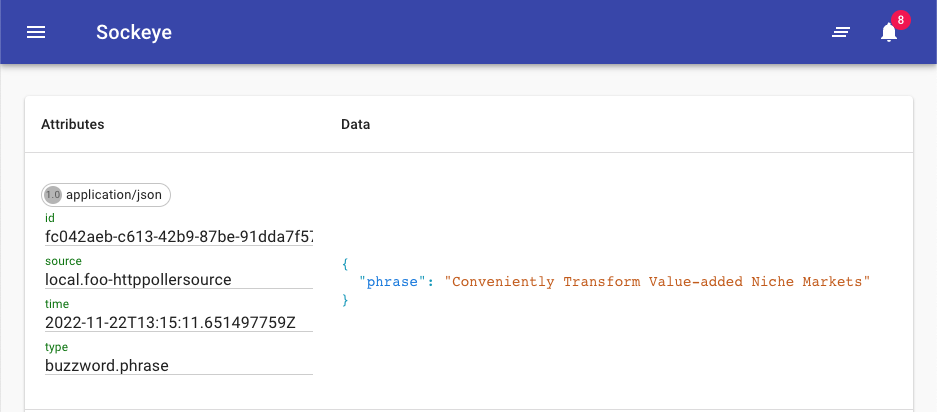
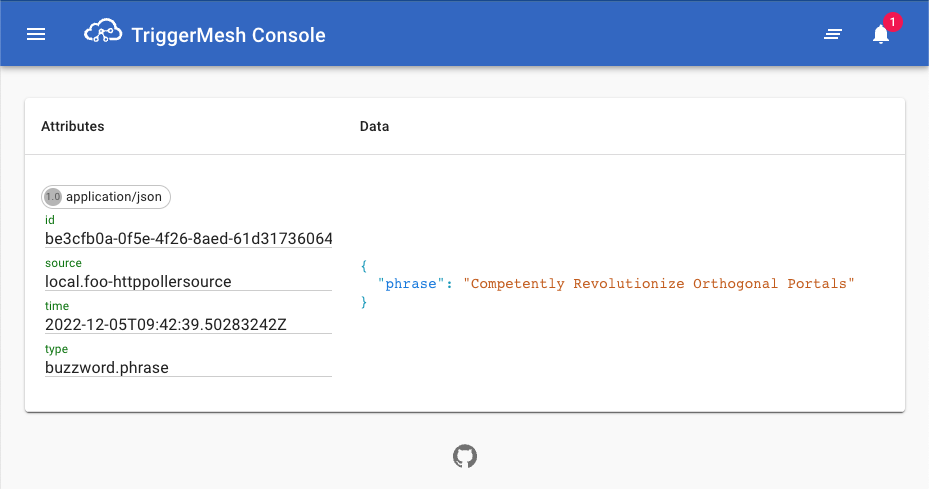
switched from sockeye to triggermesh console

diff --git a/docs/get-started/quickstart.md b/docs/get-started/quickstart.md
@@ -56,8 +56,6 @@ TriggerMesh CLI can be installed from different sources: brew repository, pre-bu
     tmctl --help
     ```
 
-For other shells, try `tmctl completion help` for more information.
-
 We recommend setting up autocompletion for `tmctl`. If you've installed `tmctl` with `brew install` then autocompletion should already be configured. If you used a different method, please refer to the dedicated guide on [configuring autocompletion](autocompletion.md).
 
 ## Create a Broker and send it an event
@@ -129,7 +127,7 @@ With the `eventType` parameter we're saying that events from this source should 
 
 **:material-numeric-2-box: Watch the events**
 
-In the second terminal that is `Watching...`the Broker, you should be regularly receiving some corporate BS:
+In the second terminal that is `Watching...`the Broker, you should be regularly receiving some generated text:
 
 ```console
 2022/11/09 16:17:38 Watching...
@@ -147,18 +145,18 @@ Data,
   }
 ```
 
-## Route events from the Broker to the Sockeye event viewer
+## Route events from the Broker to the TriggerMesh Console
 
 **:material-numeric-1-box: Create a target**
 
 Now let's send those events somewhere.
 
-We're going to run a local service called Sockeye that is used to view events in the browser. Create a Target that points to this service and runs the necessary container with the following command:
+We're going to run a local service called TriggerMesh Console that is used to view events in the browser. Create a Target that points to this service and runs the necessary container with the following command:
 
 ```
 tmctl create target \
-	--name sockeye \
-	--from-image docker.io/n3wscott/sockeye:v0.7.0 \
+	--name console \
+	--from-image gcr.io/triggermesh/triggermesh-console:v0.0.1 \
 	--source foo-httppollersource
 ```
 
@@ -168,24 +166,24 @@ After running this command, it should output a URL that you can open in your bro
 Listening on:     http://localhost:<port>
 ```
 
-**:material-numeric-2-box: View events in Sockeye**
+**:material-numeric-2-box: View events in TriggerMesh Console**
 
 Open this in your browser and events you should start showing up there:
 
 ![](../assets/images/quickstart/quickstart-sockeye-v2.png)
 
-If you still have `tmctl watch` running in a second terminal, you'll also see events there when they hit the Broker, before passing on to Sockeye.
+If you still have `tmctl watch` running in a second terminal, you'll also see events there when they hit the Broker, before passing on to the Console.
 
 ## Transform the event
 
-Lets transform the incoming events before they are passed to Sockeye.
+Lets transform the incoming events before they are passed to the Console.
 
 **:material-numeric-1-box: Create a transformation**
 
 Using TriggerMesh's Bumbleebee transformation component, we can easily modify an event as it passes through the TriggerMesh.
 
 ```
-tmctl create transformation --target sockeye <<EOF
+tmctl create transformation --target console <<EOF
 data:
 - operation: add
   paths:
@@ -194,7 +192,7 @@ data:
 EOF
 ```
 
-This simple transformation adds a new key to the event's JSON payload. We're using the `--target` parameter to indicate that the transformed events should be passed along to `sockeye`.
+This simple transformation adds a new key to the event's JSON payload. We're using the `--target` parameter to indicate that the transformed events should be passed along to the Console.
 
 **:material-numeric-2-box: Send an event**
 
@@ -204,7 +202,7 @@ Although you can wait till the HTTPPoller fetches an another event, you can also
 tmctl send-event '{"hello":"triggermesh"}' --eventType buzzword.phrase
 ```
 
-Notice how events displayed in Sockeye now include the additional field that was added by the transformation.
+Notice how events displayed in the Console now include the additional field that was added by the transformation.
 
 ![](../assets/images/quickstart/quickstart-sockeye-transformed-v2.png)
 
@@ -221,20 +219,20 @@ As you can see, `tmctl describe` displays useful info about your current configu
 ``` sh
 ~ % tmctl describe
 Broker     Status
-foo        online(http://localhost:54591)
+foo        online(http://localhost:53053)
 
 Trigger                  Target                 Filter
-foo-trigger-43facd4e     foo-transformation     type is buzzword.phrase
-foo-trigger-9dad7875     sockeye                type is foo-transformation.output
+foo-trigger-a73dcb65     foo-transformation     type is buzzword.phrase
+foo-trigger-0a1c285d     console                type is foo-transformation.output
 
 Transformation         EventTypes                    Status
-foo-transformation     foo-transformation.output     online(http://localhost:55073)
+foo-transformation     foo-transformation.output     online(http://localhost:53205)
 
 Source                   Kind                 EventTypes          Status
-foo-httppollersource     httppollersource     buzzword.phrase     online(http://localhost:55028)
+foo-httppollersource     httppollersource     buzzword.phrase     online(http://localhost:53069)
 
-Target      Kind                                               Expected Events     Status
-sockeye     kn-service (docker.io/n3wscott/sockeye:v0.7.0)     *                   online(http://localhost:54853)
+Target      Kind                                                        Expected Events     Status
+console     service (gcr.io/triggermesh/triggermesh-console:v0.0.1)     *                   online(http://localhost:53098)
 ```
 
 ## Next steps
